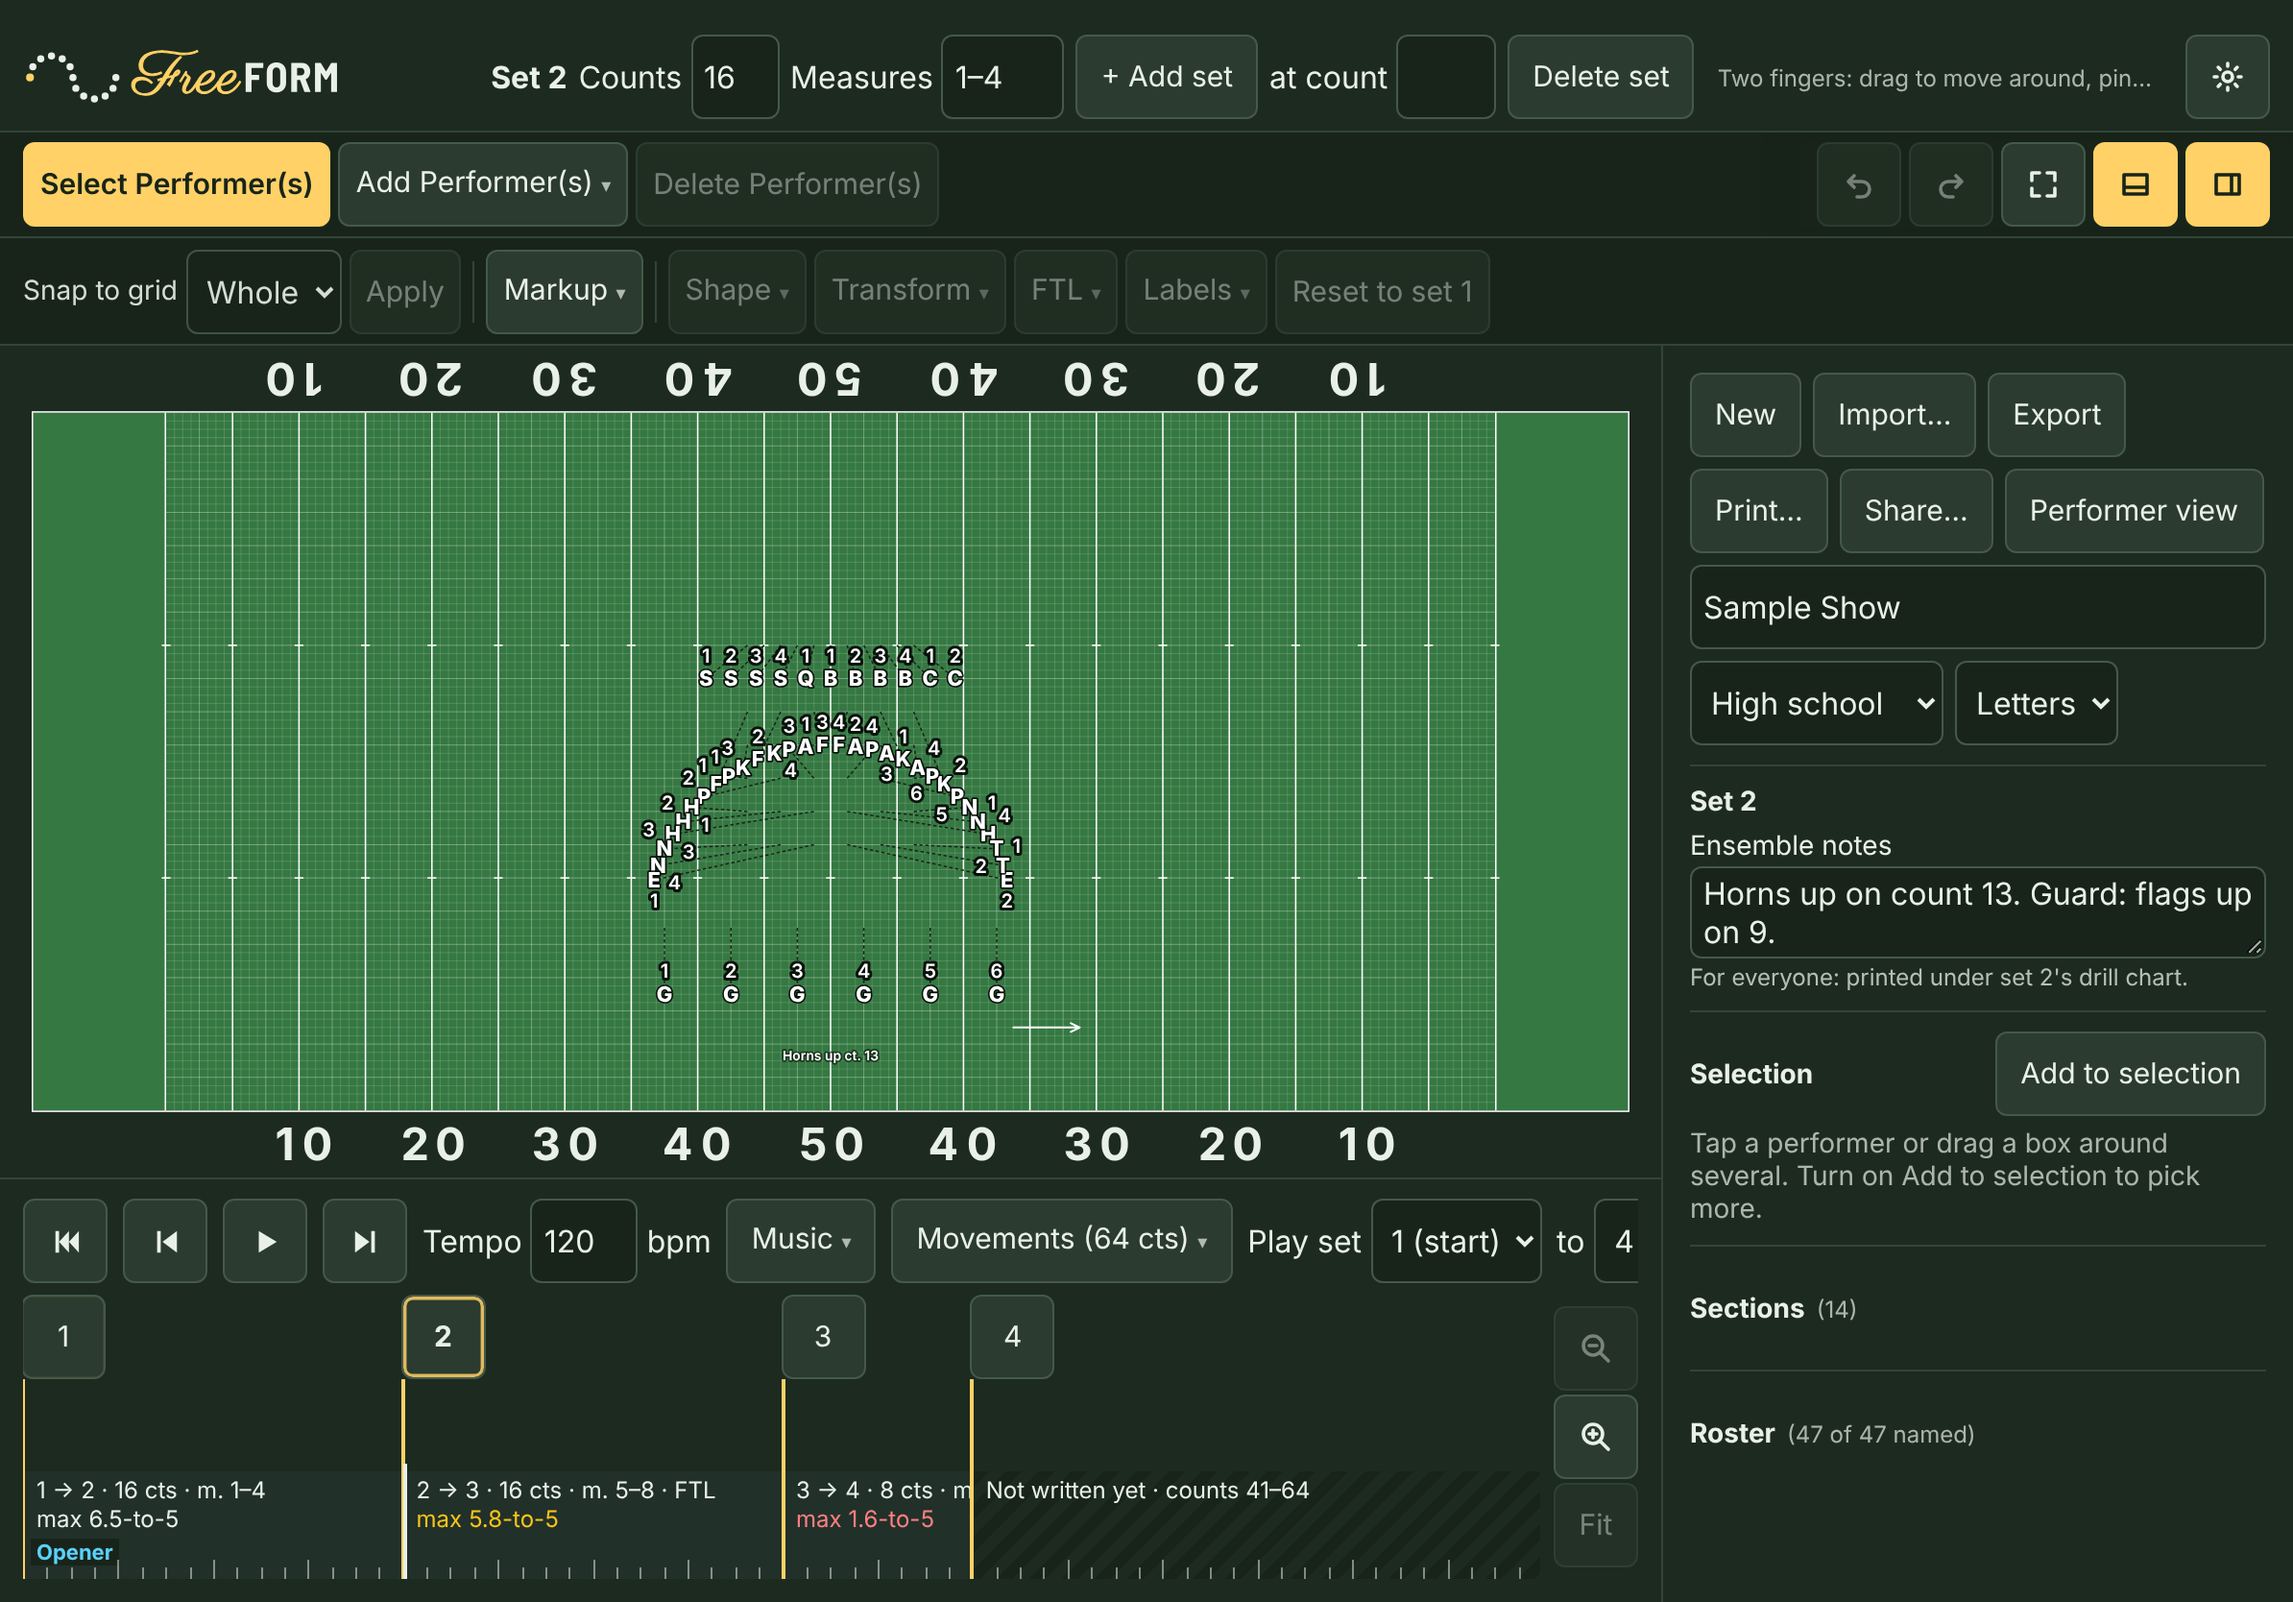
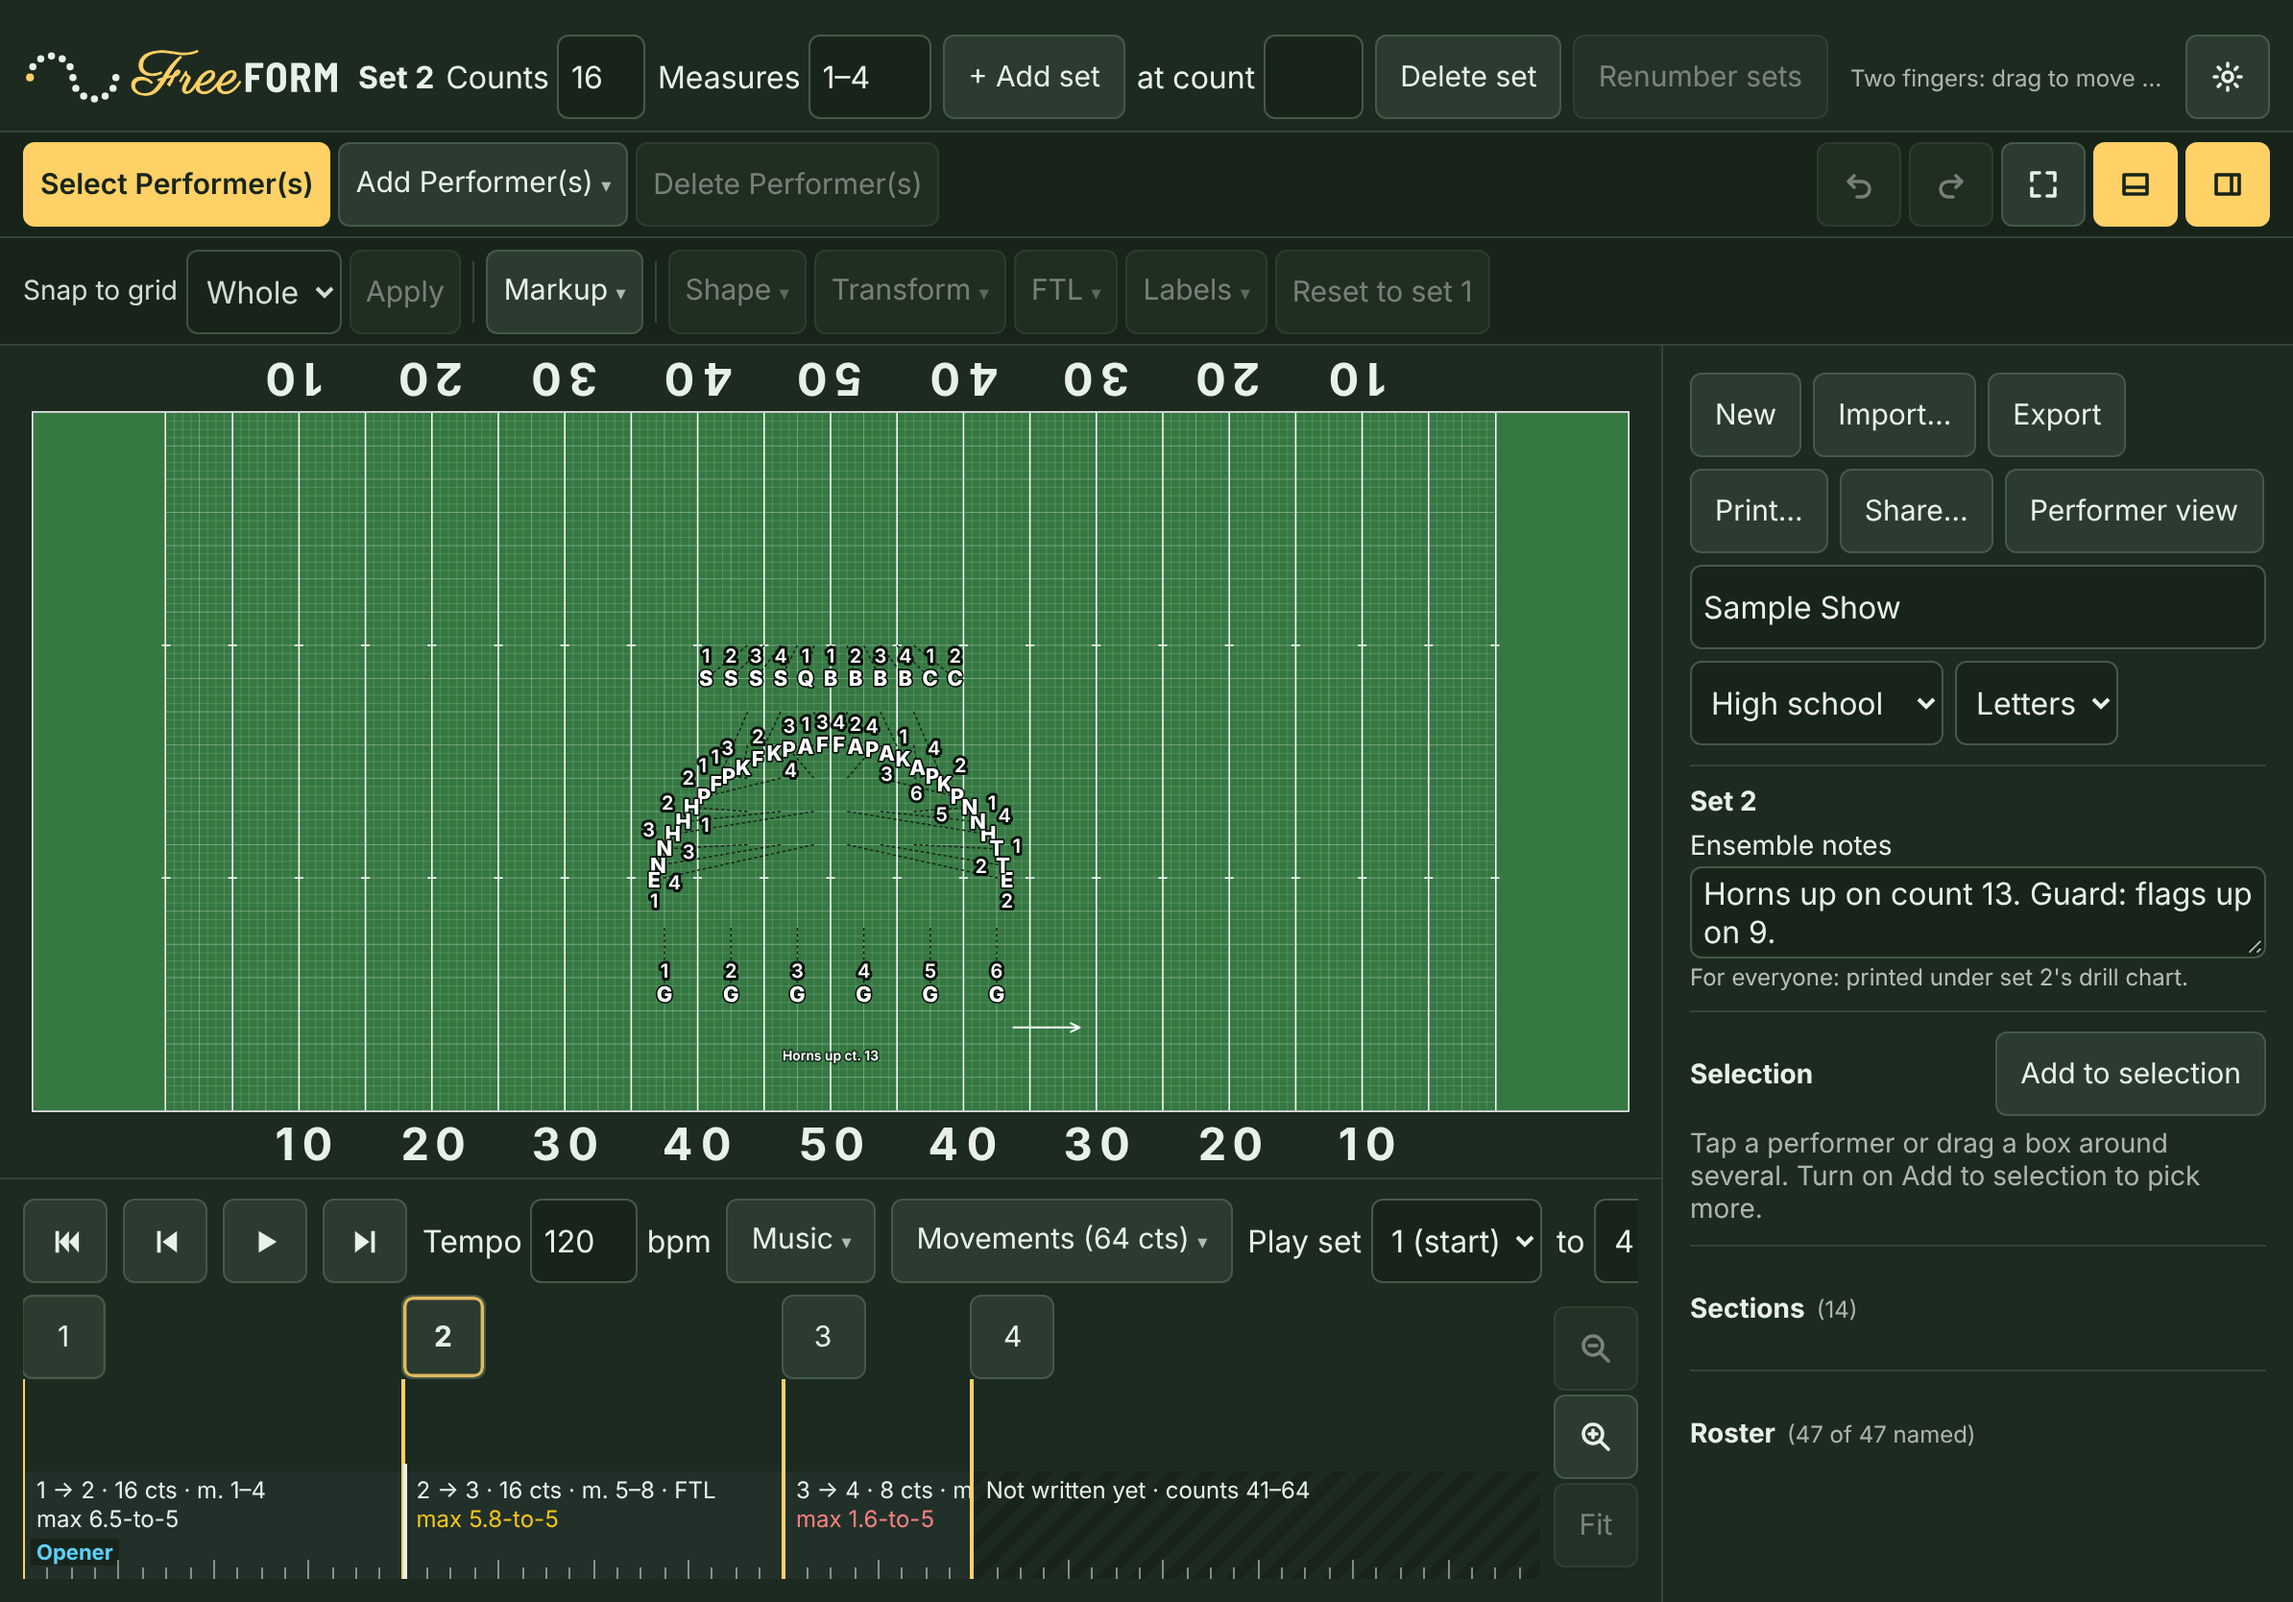
Renumber sets: put set names back in order after deletes and inserts
Main sets become 1, 2, 3...; sub-sets follow the set before them, lettered
in order. A button beside Delete set (not automatic, so printed sheets keep
matching until the director chooses). One Undo reverses it.

Claude-Session: https://claude.ai/code/session_012ak5ZSazZVcYvhNSTGR7LX

Changed region(s): [[0.1549, 0.0312, 0.9296, 0.0624]]

diff --git a/src/engine/show.test.ts b/src/engine/show.test.ts
@@ -2,7 +2,7 @@ import { describe, expect, it } from 'vitest';
 import { HASHES, readout } from './coords';
 import {
   addPerformer, addSetAfter, advance, biggestStep, chainOrder, clearFtl, ftlTrail, moveSteps, normalizeFtl, flip, mirrorSides, moveSetTo, remapHash, rotateScale, setFtl, snapSelection, playRange, playPlan, label, locate, newShow, parseShow, placeInSet, positionsAt,
-  removePerformers, scoreOrder, DEFAULT_SECTIONS, removeSet, setAt, setCounts, setStarts, totalCounts, xFrom, yFrom, insertSetAt, showLength, movementAt, movementOfSet, setFtlTurns,
+  removePerformers, renumberSets, scoreOrder, DEFAULT_SECTIONS, removeSet, setAt, setCounts, setStarts, totalCounts, xFrom, yFrom, insertSetAt, showLength, movementAt, movementOfSet, setFtlTurns,
 } from './show';
 
 function twoSetShow() {
@@ -551,5 +551,17 @@ describe('score order', () => {
   });
   it("leaves FreeFORM's starting list as it is", () => {
     expect(scoreOrder([...DEFAULT_SECTIONS])).toEqual([...DEFAULT_SECTIONS]);
+  });
+});
+
+describe('renumbering sets', () => {
+  const named = (...names: string[]) => ({ ...newShow(), sets: names.map((name) => ({ id: name, name, counts: 8, pos: {} })) });
+  it('closes the gap a deleted set leaves; sub-sets follow their set, lettered in order', () => {
+    expect(renumberSets(named('1', '2', '3', '4', '5', '6', '8')).sets.map((s) => s.name)).toEqual(['1', '2', '3', '4', '5', '6', '7']);
+    expect(renumberSets(named('1', '2', '4', '4B', '4C', '6', '6A')).sets.map((s) => s.name)).toEqual(['1', '2', '3', '3A', '3B', '4', '4A']);
+  });
+  it('leaves a show already in order alone', () => {
+    const s = named('1', '1A', '2', '3');
+    expect(renumberSets(s)).toBe(s);
   });
 });

diff --git a/src/ui/Timeline.tsx b/src/ui/Timeline.tsx
@@ -1,7 +1,7 @@
 import { useEffect, useLayoutEffect, useRef, useState } from 'react';
 import { peakBetween, timeAt } from '../engine/music';
 import { chrome, useTheme } from './palette';
-import { addSetAfter, biggestStep, insertSetAt, locate, MAX_MOVEMENT, movementAt, movementOfSet, movementStarts, moveSetTo, newId, removeSet, setAt, setCounts, setMeasures, playPlan, setStarts, showLength, totalCounts, type Show } from '../engine/show';
+import { addSetAfter, biggestStep, insertSetAt, locate, MAX_MOVEMENT, movementAt, movementOfSet, movementStarts, moveSetTo, newId, removeSet, renumberSets, setAt, setCounts, setMeasures, playPlan, setStarts, showLength, totalCounts, type Show } from '../engine/show';
 import { Menu } from './Toolbar';
 import { STEP_TEXT } from '../field/drawField';
 import { fmtStep } from './format';
@@ -314,6 +314,8 @@ export function SetControls({ show, setShow, t, setT }: { show: Show; setShow: (
           onChange={(e) => setAtCount(e.target.value)} onKeyDown={(e) => { if (e.key === 'Enter') add(); }} />
       </label>
       <button disabled={show.sets.length < 2} onClick={() => { setShow((s) => removeSet(s, cur)); setT(starts[Math.max(0, cur - 1)]); }}>Delete set</button>
+      <button disabled={renumberSets(show) === show} onClick={() => setShow(renumberSets)}
+        title="Number the sets 1, 2, 3… in order again (after deleting or adding sets). Sub-sets like 4A follow the set before them. Undo reverses it.">Renumber sets</button>
     </div>
   );
 }

diff --git a/src/engine/show.ts b/src/engine/show.ts
@@ -256,6 +256,22 @@ export function subSetName(names: Set<string>, before: string): string {
   return name;
 }
 
+/**
+ * Name the sets in order again after deletes and inserts: main sets 1, 2, 3…, and sub-sets (4A) lettered A, B… after
+ * the set before them. Names that aren't a number (none today) stay as they are. Returns the same show if nothing changes.
+ */
+export function renumberSets(show: Show): Show {
+  let n = 0, k = 0;
+  const names = show.sets.map((s) => {
+    const sub = /^\d+([A-Z]+)?$/.exec(s.name);
+    if (!sub) return s.name;
+    if (sub[1] && n) return `${n}${String.fromCharCode(65 + Math.min(k++, 25))}`;
+    n++; k = 0;
+    return String(n);
+  });
+  return names.every((x, i) => x === show.sets[i].name) ? show : { ...show, sets: show.sets.map((s, i) => ({ ...s, name: names[i] })) };
+}
+
 /** The timeline's length: the written sets, or the movements' total if that's longer (the part not written yet). */
 export const showLength = (show: Show) => Math.max(totalCounts(show), (show.movements ?? []).reduce((n, m) => n + m.counts, 0));
 

diff --git a/DECISIONS.md b/DECISIONS.md
@@ -1022,3 +1022,9 @@ Each entry: timestamp, who decided, context, options considered, decision.
 - **Context:** Every number box cleaned up its number on every keystroke, so an empty box jumped to a default or minimum (typing 150 into the scale box couldn't get past the 1), and a set's Counts changed with each digit, which moved the set while you typed.
 - **Options:** Fix Tempo alone; one shared number box for the whole app.
 - **Decision:** One shared `NumberField` (`src/ui/NumberField.tsx`) for Tempo (editor and phone), Counts, movement counts, rotation, scale percent, shape interval and columns, Redo from count, and Place exactly. It shows the number keyboard on phones and iPads, can sit empty while you type, applies each valid number as you type, and when you leave it empty puts the last good number back (a number out of range is pulled into range: 400 bpm becomes 300). Counts apply only on Enter or tapping away.
+
+## 2026-11-04 21:20 EST — Renumber sets
+- **Who:** Jason Tiller asked for it (deleting set 7 of 8 leaves 1-6 and 8); the details are Claude's *(Jason can veto)*.
+- **Context:** Deleting or adding sets leaves gaps or out-of-order names.
+- **Options:** Renumber automatically on every delete; a button.
+- **Decision:** A **Renumber sets** button beside Delete set, grayed out when the sets are already in order. Not automatic, because renaming sets behind the director's back would stop printed dot sheets, charts, and notes from matching. Main sets become 1, 2, 3…; sub-sets (4A) follow the set before them, lettered A, B… in order. One Undo reverses it.

diff --git a/docs/HOW-TO.md b/docs/HOW-TO.md
@@ -136,7 +136,8 @@ A set is one picture of the drill, and the move into it takes a number of counts
 
 - **+ Add set** (top bar) adds a set 16 counts after the one you're on, and the sets after it move along. The new set starts as a copy of the one you were on, so you only move the people who move.
 - Change a set's **Counts** and **Measures** in the top bar. New counts take effect when you press Enter or tap away, so the set doesn't jump around while you type. Type measures the way the score numbers them (a pickup bar is m. 1).
-- **Delete set** removes the set you're on.
+- **Delete set** removes the set you're on. The sets after it keep their numbers (delete set 7 of 8 and you have 1 to 6, then 8), so anything you've already printed or written still matches.
+- **Renumber sets** numbers the sets 1, 2, 3… in order again whenever you're ready. Sub-sets keep their place after the set before them and are lettered in order (the old 8A becomes 7A). Undo reverses it.
 - **Click a set's button** on the timeline to go to it, or click any count to see where everyone is on that count.
 - **Drag a set's button** to move it to a different count. The sets around it stay where they are.
 
